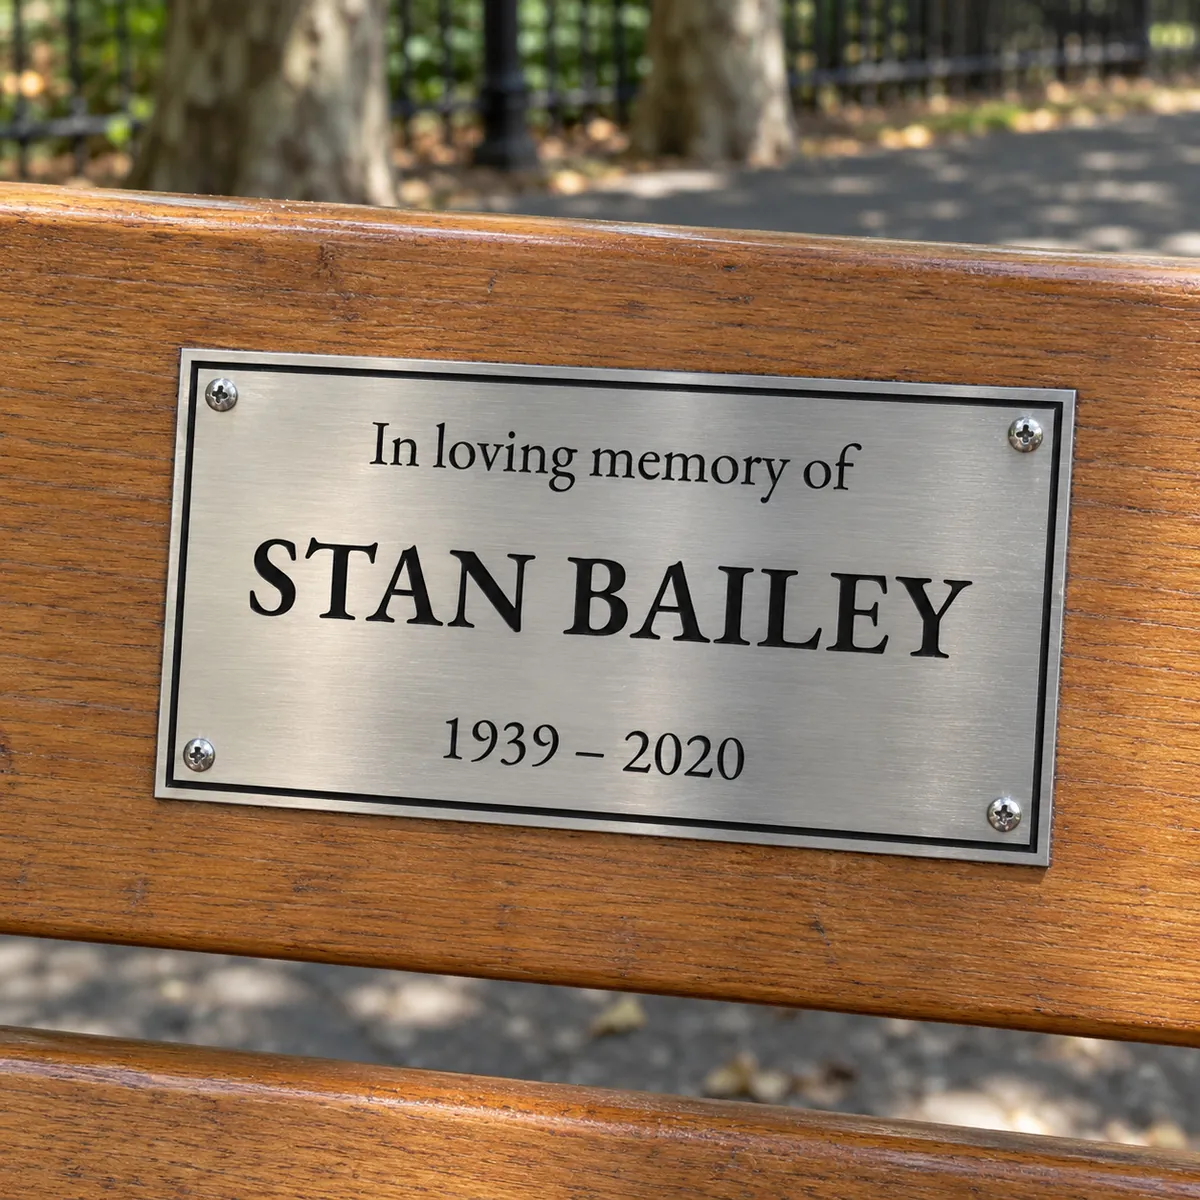
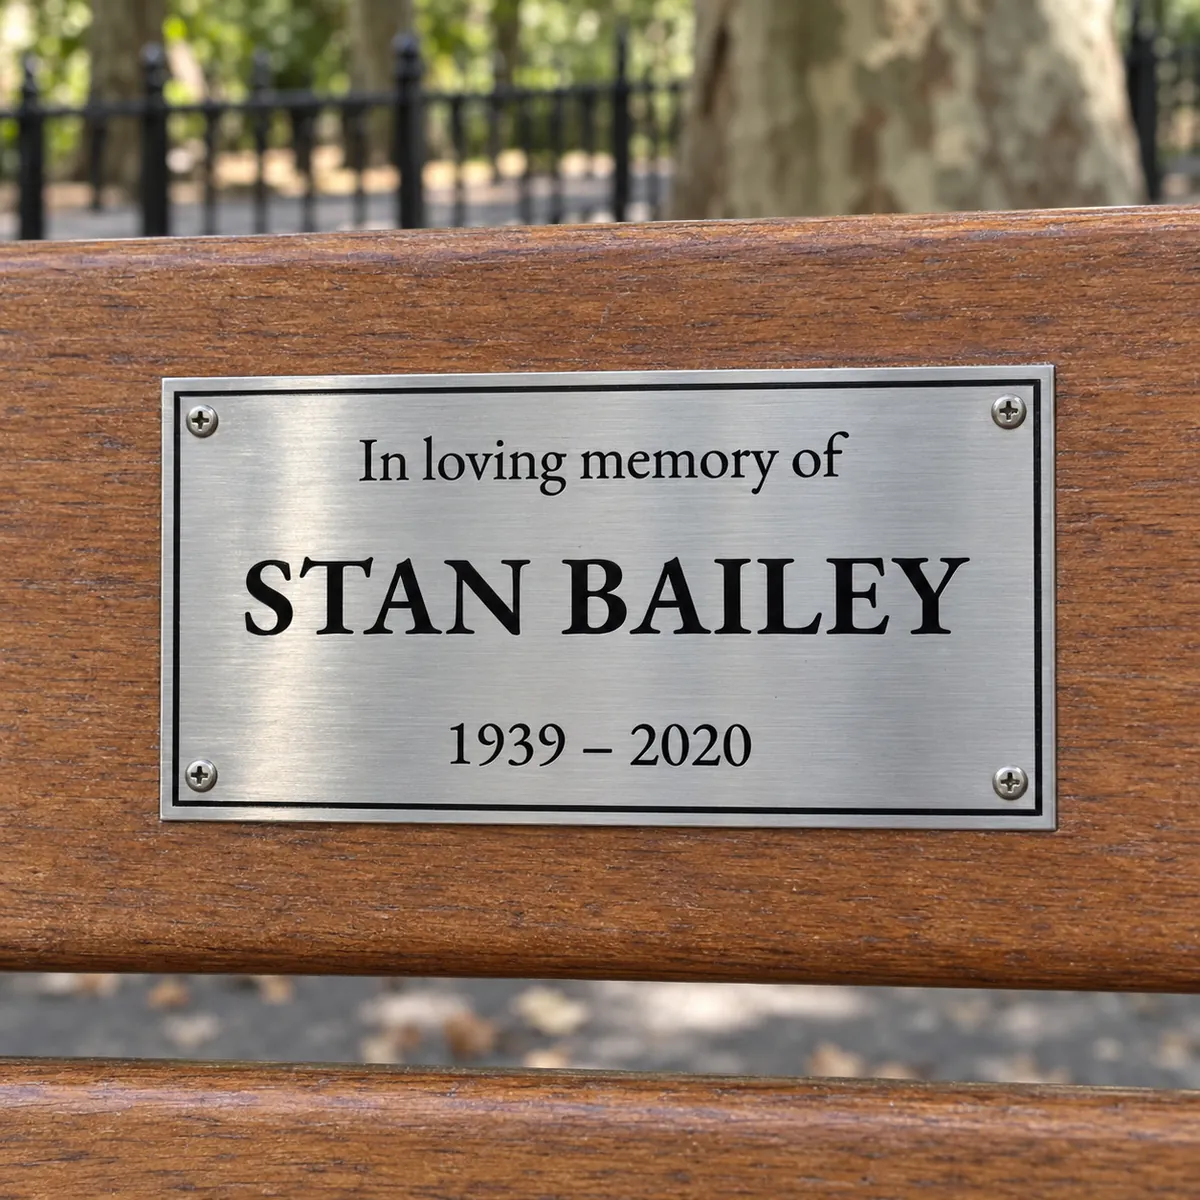
Bench page: every plaque level in its photo, from re-coded camera layouts (owner msg 6214)
The guide camera now moves around the plaque's own axes, square to the leaning-back backrest, and is rolled so the
plaque's long edges run level (scripts/real-photos/bench_scene.py, level=True); the old world yaw and pitch made every
plaque slope 2-4 degrees. Top photo bench-hero-v4, the six bench picks ?v=4; Mary Quinn's workshop shot unchanged.

diff --git a/services/commerce.ts b/services/commerce.ts
@@ -1147,14 +1147,15 @@ const cataloguePhotoVersions: Record<string, number> = {
   'polished-brass-200x150-rect-light-wood-plaque': 2,
   // The bench page's picks, redone the same way with fuller dedications (owner msg 6132); version 3 from a coded
   // 3D layout of each bench, plaque square on the top rail, plain settings, newer benches (owner msgs 6149-6154),
-  // with the simpler "In loving memory of", name and dates wording (msgs 6189-6192).
-  'brushed-brass-225x75-rect-plaque': 3,
-  'polished-stainless-200x50-rect-plaque': 3,
-  'aged-brass-150x75-rect-plaque': 3,
+  // with the simpler "In loving memory of", name and dates wording (msgs 6189-6192); version 4 with each plaque
+  // level in the frame (msg 6214). Mary Quinn's workshop shot has no bench and stays at 3.
+  'brushed-brass-225x75-rect-plaque': 4,
+  'polished-stainless-200x50-rect-plaque': 4,
+  'aged-brass-150x75-rect-plaque': 4,
   'polished-brass-150x65-rect-plaque': 3,
-  'orbital-brass-matt-lacquer-150x75-rect-plaque': 3,
-  'brushed-stainless-150x75-rect-plaque': 3,
-  'polished-stainless-225x65-rect-plaque': 3,
+  'orbital-brass-matt-lacquer-150x75-rect-plaque': 4,
+  'brushed-stainless-150x75-rect-plaque': 4,
+  'polished-stainless-225x65-rect-plaque': 4,
 };
 const cataloguePhotoFor = (slug: string) => `/site-images/catalogue-photo/${slug}.webp${(cataloguePhotoVersions[slug] || 1) > 1 ? `?v=${cataloguePhotoVersions[slug]}` : ''}`;
 /** The 600 px copy of a catalogue photo, keeping any ?v= version. */

diff --git a/components/CategoryPages.tsx b/components/CategoryPages.tsx
@@ -77,7 +77,7 @@ export function categoryLandingFor(product: ProductFamily, subject: string, exam
         title: 'Personalised bench plaques',
         note: 'A small place for a lasting memory.',
         hero: {
-          base: `${category}/bench-hero-v3`,
+          base: `${category}/bench-hero-v4`,
           alt: 'Brushed stainless steel bench plaque reading In loving memory of George Holland, 1931 to 2021, screwed to the middle of the top rail of a new teak bench on a grassy hilltop',
           caption: <>Shown: brushed stainless steel, 150 × 50 mm, the plaque priced below. {seeThis('brushed-stainless-150x50-rect-plaque')}</>,
         },

diff --git a/scripts/real-photos/bench.py b/scripts/real-photos/bench.py
@@ -120,7 +120,7 @@ PHOTOS = [
          story='George Holland walked the hills above his village every day of his retirement and always stopped to rest '
                'at the top. His family put a new bench there in his memory, facing the view he loved.',
          lines=[('intro', 'In loving memory of'), ('name', 'GEORGE HOLLAND'), ('date', '1931 – 2021')],
-         guide=dict(size=[1024, 683], lens=70, yaw=-16, pitch=12, frac=0.55, cx=0.5, cy=0.5,
+         guide=dict(size=[1024, 683], lens=70, yaw=-10, pitch_rel=0, level=True, frac=0.55, cx=0.5, cy=0.5,
                     bench=dict(GARDEN, L=1800, rail_h=100)),
          bench='a new-looking solid teak garden bench, only a year or two old: smooth honey-brown timber just starting to '
                'silver at the edges, a thick top rail on the backrest with vertical slats below it, and arms',
@@ -134,7 +134,7 @@ PHOTOS = [
          story='Lily Chambers walked her dog along the river every morning for sixty years and always stopped at this '
                'spot. Her neighbours put a bench there for her.',
          lines=[('intro', 'In loving memory of'), ('name', 'LILY CHAMBERS'), ('date', '1929 – 2019')],
-         guide=dict(size=[1024, 1024], lens=85, yaw=18, pitch=10, frac=0.8, bench=dict(GARDEN)),
+         guide=dict(size=[1024, 1024], lens=85, yaw=10, pitch_rel=0, level=True, frac=0.8, bench=dict(GARDEN)),
          bench='a solid oak bench that has stood by the river for years: weathered to a soft grey-brown, with fine cracks '
                'and a few patches of pale lichen, a thick top rail with vertical slats below it, and arms',
          facing='The bench faces the river, so the river is behind the camera and is NOT in the photo: no water, no weir, '
@@ -148,7 +148,7 @@ PHOTOS = [
                'sat on this bench to watch the fishing boats come home.',
          lines=[('intro', 'In loving memory of'), ('name', 'TOM & BETTY HARRIS'), ('date', 'Tom 1932 – 2016 · Betty 1935 – 2021'),
                 ('body', 'Together again')],
-         guide=dict(size=[1024, 1024], lens=85, yaw=-14, pitch=12, frac=0.8, bench=dict(MODERN)),
+         guide=dict(size=[1024, 1024], lens=85, yaw=0, pitch_rel=0, level=True, frac=0.8, bench=dict(MODERN)),
          bench='a newer seafront bench: smooth hardwood slats with a clear oiled finish on a slim black powder-coated '
                'steel frame, with no arms',
          facing='The bench faces the sea, so the sea and the harbour are behind the camera and are NOT in the photo: no '
@@ -161,7 +161,7 @@ PHOTOS = [
          story='Alice Grant bowled for her village bowls club for more than forty years. The club put a bench beside the '
                'green in her memory.',
          lines=[('intro', 'In loving memory of'), ('name', 'ALICE GRANT'), ('date', '1933 – 2021')],
-         guide=dict(size=[1024, 1024], lens=85, yaw=15, pitch=14, frac=0.75, bench=dict(PARK, L=1500)),
+         guide=dict(size=[1024, 1024], lens=85, yaw=8, pitch_rel=0, level=True, frac=0.75, bench=dict(PARK, L=1500)),
          bench='a newly painted dark green wooden bench with three wide back slats and black cast-iron ends with arms',
          facing='The bench faces the bowling green, so the green is behind the camera and is NOT in the photo: no lawn, '
                 'no bowls anywhere behind the bench.',
@@ -187,7 +187,7 @@ PHOTOS = [
          story='John Penrose taught half the village to sail at the sailing club on the lake. The members put a bench on the '
                'bank where he used to sit and watch the races.',
          lines=[('intro', 'In loving memory of'), ('name', 'JOHN PENROSE'), ('date', '1946 – 2022'), ('body', 'Fair winds and following seas')],
-         guide=dict(size=[1024, 1024], lens=85, yaw=-12, pitch=10, frac=0.75, bench=dict(GARDEN)),
+         guide=dict(size=[1024, 1024], lens=85, yaw=-10, pitch_rel=0, level=True, frac=0.75, bench=dict(GARDEN)),
          bench='an old iroko bench weathered to silver-grey, with a thick top rail on the backrest, vertical slats below it '
                'and arms',
          facing='The bench faces the lake where he watched the races, so the lake is behind the camera and is NOT in the '
@@ -200,7 +200,7 @@ PHOTOS = [
          story="Stan Bailey was the keeper of his town's Victorian park for thirty years. The friends of the park put a "
                "bench by the bandstand for him.",
          lines=[('intro', 'In loving memory of'), ('name', 'STAN BAILEY'), ('date', '1939 – 2020')],
-         guide=dict(size=[1024, 1024], lens=85, yaw=16, pitch=12, frac=0.75, bench=dict(PARK)),
+         guide=dict(size=[1024, 1024], lens=85, yaw=10, pitch_rel=0, level=True, frac=0.75, bench=dict(PARK)),
          bench='a fairly new park bench: smooth hardwood slats with a clear finish on black-painted cast-iron ends with arms',
          facing='The bench faces the bandstand and its flower beds, so they are behind the camera and are NOT in the photo.',
          behind='a tarmac path, black iron railings and the trunks of old plane trees, softly out of focus',
@@ -212,7 +212,7 @@ PHOTOS = [
                'and talk. The parish put a bench in the churchyard in his memory.',
          lines=[('intro', 'In loving memory of'), ('name', 'REVD JOHN ASHWORTH'), ('date', '1929 – 2012'),
                 ('body', '“Come ye apart and rest a while” Mark 6:31')],
-         guide=dict(size=[1024, 1024], lens=85, yaw=-15, pitch=12, frac=0.8, bench=dict(GARDEN, rail_h=100)),
+         guide=dict(size=[1024, 1024], lens=85, yaw=0, pitch_rel=0, level=True, frac=0.8, bench=dict(GARDEN, rail_h=100)),
          bench='an old oak bench weathered to silver-grey with a few patches of lichen: a thick top rail on the backrest, '
                'vertical slats below it, and arms',
          facing='The bench looks out across the churchyard, so that view is behind the camera.',
@@ -296,12 +296,27 @@ def prompts(round_tag='r4'):
         what = ('A real, unretouched photograph of a memorial bench plaque in place, for a UK plaque maker\'s website.'
                 if p.get('hero') else 'A real, unretouched photograph of a memorial bench plaque in place, for its product '
                 'page on a UK plaque maker\'s website.')
-        side = 'left' if g['yaw'] < 0 else 'right'
-        above = 'a little above the rail, looking slightly down at it' if g['pitch'] >= 10 else 'at about the height of the rail'
-        camera = (f"exactly as in the layout render: close to the bench, a little to its {side}, with the camera {above}, "
-                  f"{g['lens']} mm lens, about {round(info['camera_distance_mm'] / 10)} cm from the plaque. The plaque fills "
-                  f"about {round(info['plaque_width_frac'] * 100)}% of the width of the photo; the whole plaque is sharp and every "
-                  f"line of the wording is readable; the background is softly out of focus.")
+        if g.get('level'):
+            # Round 5 (owner msg 6214): the camera is square to the leaning-back backrest, so it looks slightly down,
+            # and the plaque sits level in the frame.
+            where = ('straight in front of the plaque, square-on to it' if g['yaw'] == 0 else
+                     f"a little to the {'left' if g['yaw'] < 0 else 'right'} of the plaque, at a gentle angle of about "
+                     f"{abs(g['yaw'])} degrees")
+            camera = (f"exactly as in the layout render: close to the bench, {where}, with the camera square to the "
+                      f"tilted-back backrest, so it looks slightly down at it; {g['lens']} mm lens, about "
+                      f"{round(info['camera_distance_mm'] / 10)} cm from the plaque. The plaque fills about "
+                      f"{round(info['plaque_width_frac'] * 100)}% of the width of the photo. The plaque sits perfectly level "
+                      f"in the photo: its top and bottom edges run straight across the frame, never tilted or sloping"
+                      + ('' if g['yaw'] == 0 else ', and only narrow slightly towards the far end') + '. The whole plaque is '
+                      'sharp and every line of the wording is readable; the background is softly out of focus.')
+        else:
+            side = 'left' if g['yaw'] < 0 else 'right'
+            above = ('a little above the rail, looking slightly down at it' if g['pitch'] >= 10
+                     else 'at about the height of the rail')
+            camera = (f"exactly as in the layout render: close to the bench, a little to its {side}, with the camera {above}, "
+                      f"{g['lens']} mm lens, about {round(info['camera_distance_mm'] / 10)} cm from the plaque. The plaque fills "
+                      f"about {round(info['plaque_width_frac'] * 100)}% of the width of the photo; the whole plaque is sharp and "
+                      f"every line of the wording is readable; the background is softly out of focus.")
         parts = [head, f'{what} {p["story"]} {REAL_LOOK} {PLAIN}', GUIDE,
                  'The bench: ' + p['bench'] + '. ' + (NEW_BENCH if p.get('new') else BENCH),
                  'The plaque: ' + plaque(o, border), METAL.format(finish=FINISH[o['material']]), THIN,

diff --git a/scripts/real-photos/bench_scene.py b/scripts/real-photos/bench_scene.py
@@ -137,13 +137,20 @@ def normal(q):
 
 
 class Camera:
-    def __init__(self, pos, target, f_px, w, h, cx, cy):
+    def __init__(self, pos, target, f_px, w, h, cx, cy, up=(0, 1, 0)):
         self.pos, self.f, self.w, self.h, self.cx, self.cy = np.array(pos, float), f_px, w, h, cx, cy
         fwd = np.array(target, float) - self.pos
         self.fwd = fwd / np.linalg.norm(fwd)
-        r = np.cross([0, 1, 0], self.fwd)
+        r = np.cross(np.asarray(up, float), self.fwd)
         self.right = r / np.linalg.norm(r)
         self.up = np.cross(self.fwd, self.right)
+
+    def level(self, axis):
+        """Roll the camera about its view axis so the world direction `axis` (the plaque's long edge) runs exactly
+        horizontally across the frame through the centre of view."""
+        angle = math.atan2(float(axis @ self.up), float(axis @ self.right))
+        c, s = math.cos(angle), math.sin(angle)
+        self.right, self.up = c * self.right + s * self.up, -s * self.right + c * self.up
 
     def to_cam(self, p):
         d = np.asarray(p, float) - self.pos
@@ -275,10 +282,26 @@ def guide(p, out_dir, json_only=False):
     # Lens: focal length as on a full-frame camera; square frames use the 24 mm height as their width.
     f_px = g['lens'] / (36 if W > H else 24) * W
     centre = plaque_face.mean(0)
-    yaw, pitch = math.radians(g['yaw']), math.radians(g['pitch'])
+    yaw = math.radians(g['yaw'])
     d = f_px * pw * math.cos(yaw) / (g['frac'] * W)
-    pos = centre + d * np.array([math.sin(yaw) * math.cos(pitch), math.sin(pitch), -math.cos(yaw) * math.cos(pitch)])
-    cam = Camera(pos, centre, f_px, W, H, g.get('cx', 0.5) * W, g.get('cy', 0.5) * H)
+    if g.get('level'):
+        # Round 5 (owner msg 6214, "why wonky?"): the camera moves around the plaque's own axes (along its long edge,
+        # up its face, out of its face) and is rolled so the plaque's long edges run level across the photo. A world
+        # yaw and pitch at a backrest that leans back made every edge slope 2-4 degrees, which read as a crooked plaque.
+        along = plaque_face[1] - plaque_face[0]
+        along = along / np.linalg.norm(along)
+        upface = plaque_face[0] - plaque_face[3]
+        upface = upface / np.linalg.norm(upface)
+        out = np.cross(upface, along)
+        rise = math.radians(g.get('pitch_rel', 0))
+        pos = centre + d * (math.cos(rise) * math.cos(yaw) * out + math.cos(rise) * math.sin(yaw) * along
+                            + math.sin(rise) * upface)
+        cam = Camera(pos, centre, f_px, W, H, g.get('cx', 0.5) * W, g.get('cy', 0.5) * H, up=upface)
+        cam.level(along)
+    else:
+        pitch = math.radians(g['pitch'])
+        pos = centre + d * np.array([math.sin(yaw) * math.cos(pitch), math.sin(pitch), -math.cos(yaw) * math.cos(pitch)])
+        cam = Camera(pos, centre, f_px, W, H, g.get('cx', 0.5) * W, g.get('cy', 0.5) * H)
     out_dir.mkdir(exist_ok=True)
     if not json_only:
         metal = METAL_EDGE['stainless' if 'stainless' in o['material'] else 'brass']
@@ -289,12 +312,19 @@ def guide(p, out_dir, json_only=False):
         Image.fromarray(img).resize((W // SS, H // SS), Image.LANCZOS).save(out_dir / f"{p['id']}.png")
     corners = (cam.project(cam.to_cam(plaque_face)) / SS).round(1).tolist()
     rail = (cam.project(cam.to_cam(rail_face)) / SS).round(1).tolist()
+    (tlx, tly), (trx, try_), (brx, bry), (blx, bly) = corners
+    tilt = math.degrees(math.atan2((try_ + bry) / 2 - (tly + bly) / 2, (trx + brx) / 2 - (tlx + blx) / 2))
     info = {'id': p['id'], 'size': [W // SS, H // SS], 'camera_distance_mm': round(d), 'lens_mm': g['lens'],
-            'yaw': g['yaw'], 'pitch': g['pitch'], 'plaque_corners_tl_tr_br_bl': corners,
+            'yaw': g['yaw'], 'pitch': g.get('pitch'), 'pitch_rel': g.get('pitch_rel'), 'level': bool(g.get('level')),
+            'plaque_tilt_deg': round(tilt, 2),
+            # How far the camera looks down, in the world: the backrest leans back, so a camera square to it looks down.
+            'camera_looks_down_deg': round(math.degrees(math.asin(max(-1.0, min(1.0, float(-cam.fwd[1]))))), 1),
+            'plaque_corners_tl_tr_br_bl': corners,
             'rail_face_corners_tl_tr_br_bl': rail,
             'plaque_width_frac': round((max(c[0] for c in corners) - min(c[0] for c in corners)) / (W // SS), 3)}
     (out_dir / f"{p['id']}.json").write_text(json.dumps(info, indent=1))
-    print(p['id'], 'camera', round(d), 'mm away; plaque spans', info['plaque_width_frac'], 'of the width')
+    print(p['id'], 'camera', round(d), 'mm away; looks down', info['camera_looks_down_deg'], 'deg; plaque spans',
+          info['plaque_width_frac'], 'of the width; tilt', info['plaque_tilt_deg'], 'deg')
 
 
 if __name__ == '__main__':

diff --git a/scripts/photo-review/build.py b/scripts/photo-review/build.py
@@ -62,7 +62,7 @@ SECTIONS = [
 # Plaque wording on photos that are not catalogue photos (from the stencils they were made from).
 SAYS = {
     '/site-images/category/memorial-hero-v4.webp': 'IN LOVING MEMORY OF / MARGARET ROWLEY / 1936 – 2023 / Mum, Nan and dear friend, / who loved this garden in every season. / Forever in our hearts',
-    '/site-images/category/bench-hero-v3.webp': 'In loving memory of / GEORGE HOLLAND / 1931 – 2021',
+    '/site-images/category/bench-hero-v4.webp': 'In loving memory of / GEORGE HOLLAND / 1931 – 2021',
     '/site-images/category/garden-hero-v2.webp': 'This garden was planted / in loving memory of / SUSAN MARSH / 1951 – 2022 / Where she was happiest',
     '/site-images/category/brass-hero-v2.webp': 'In memory of / FRED & ELSIE BOND / married 1950 / who are remembered here / with love from their family',
     '/site-images/category/stainless-hero.webp': 'Welcome to / THE RIVERSIDE / GARDEN / A community space for everyone / Opened 2026',
@@ -77,7 +77,7 @@ SAYS = {
 
 TITLES = {
     '/site-images/category/memorial-hero-v4.webp': 'Memorial page · top photo',
-    '/site-images/category/bench-hero-v3.webp': 'Bench page · top photo',
+    '/site-images/category/bench-hero-v4.webp': 'Bench page · top photo',
     '/site-images/category/garden-hero-v2.webp': 'Garden page · top photo',
     '/site-images/category/brass-hero-v2.webp': 'Brass page · top photo',
     '/site-images/category/stainless-hero.webp': 'Stainless page · top photo',

diff --git a/docs/bench-real-photos-2026-10-25.md b/docs/bench-real-photos-2026-10-25.md
@@ -187,6 +187,35 @@ Files:
 - The six bench picks and Mary's photo: `?v=3`.
 - None of rounds 2–4 had gone live before this release, so they reuse those file names.
 
+Round 4 went live at about 10:30 UTC as `dpl_2mrncD7S4CHGu6B5FTW6y53dXtfG`.
+
+## Round 5: level plaques (owner msg 6214)
+
+After seeing Stan's coded input the owner asked:
+
+> Right so why wonky on imagen?
+
+The tilt came from the guide, not Codex. The guide camera used a world yaw of 12–18° and a world pitch of 10–14°, aimed
+at a backrest that leans back 10–12°. That combination makes every rail and plaque edge slope across the frame:
+2.1–3.7° on the seven guides. It is correct perspective, but in a tight close-up with nothing level to judge by, the
+plaque reads as crooked. Codex reproduced it faithfully.
+
+The fix is in `bench_scene.py`, used by guides with `level=True`:
+- The camera is placed in the plaque's own frame: along its long edge, up its face and out of its face.
+- `pitch_rel=0` keeps it square to the leaning-back backrest, so in world terms it looks down 10–12°.
+- Its up vector is the face's up, and `Camera.level()` rolls it so the plaque's long edge runs exactly horizontally
+  through the centre of view.
+- The guide JSON records `plaque_tilt_deg`. All seven are now 0.0°.
+- Tom & Betty and the Reverend are square-on; the others keep a gentle 8–10° angle, where the plaque only narrows
+  towards the far end.
+- Each brief says the plaque sits perfectly level, with its top and bottom edges never tilted or sloping.
+
+Mary Quinn's workshop shot has no guide and was not affected.
+
+All 14 versions sat level on their guide outlines and were word-perfect.
+- **Kept:** v1 of each, except v2 for Tom & Betty, which has no frame bracket showing under the slat.
+- **Files:** top photo `category/bench-hero-v4`; the six bench picks `?v=4`; Mary's photo stays `?v=3`.
+
 ## Checks
 
 - Static render: the bench page has 13 images and none are missing.
